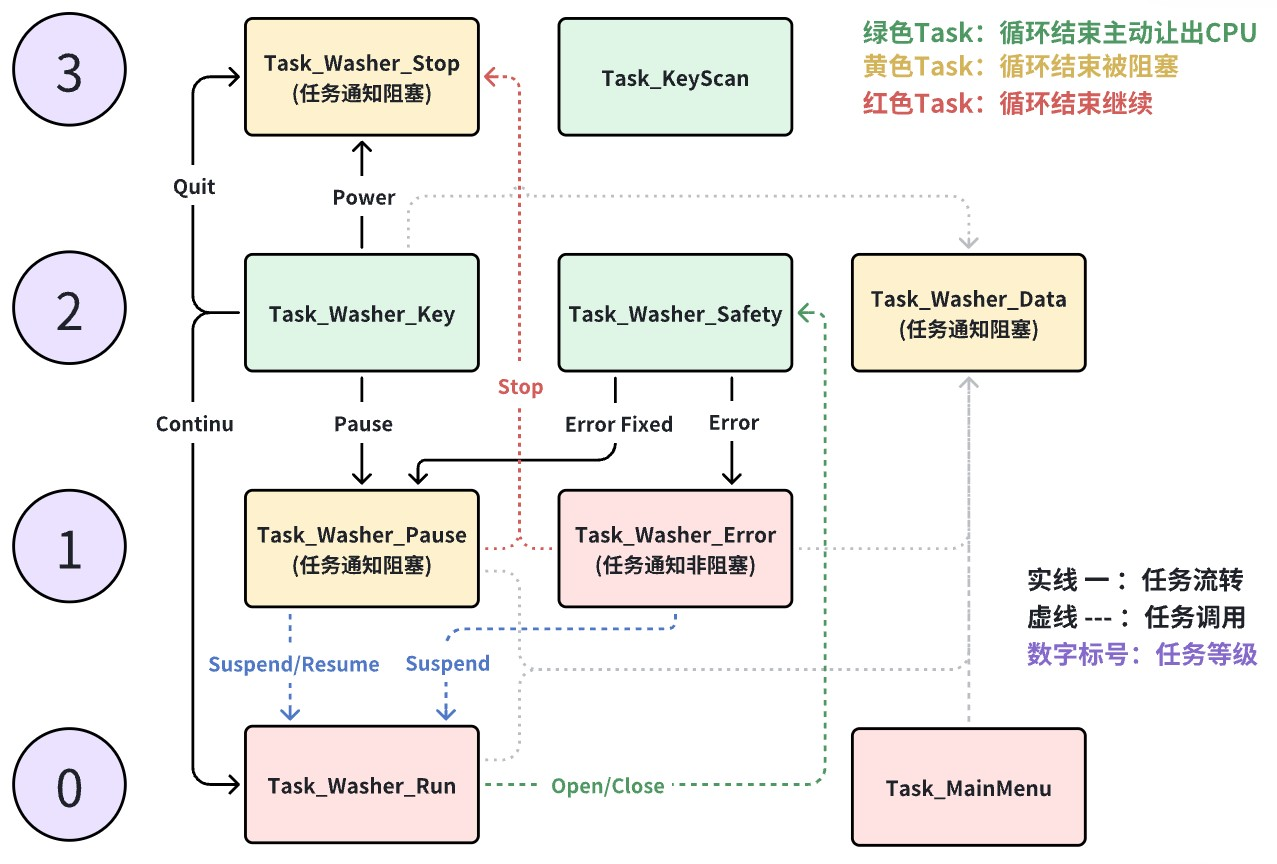
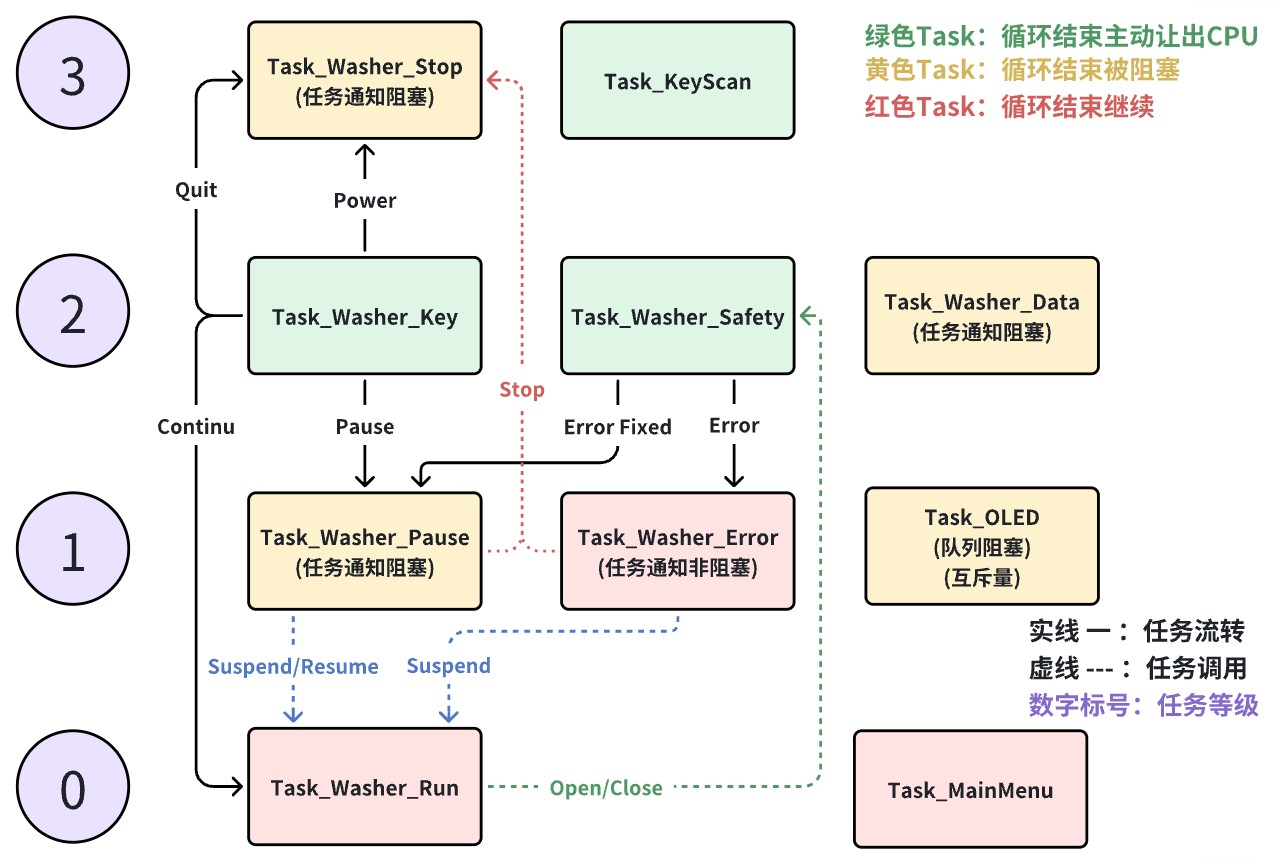
更新README

diff --git a/README.md b/README.md
@@ -57,7 +57,7 @@
 
 - 下图为任务图。
 - **注意：仅v3.0.0及以上版本适用。**
-- Task_Washer_Run 核心逻辑依然是洗衣机的状态机，相比于 v2.0.0分支版本，把洗衣机的【按键扫描】【安全监测】【急停/暂停/继续】从状态机里拆分出来，作为单独的Task运行，以提升响应速度和并发处理。
+- Task_Washer_Run 核心逻辑依然是洗衣机的状态机。相比于 v2.0.0分支版本，把【按键扫描】【安全监测】【急停/暂停/继续】【OLED显示】【数据管理】从状态机里拆分出来，作为单独的Task运行，以提升响应速度和并发处理。
 
 ![](https://github.com/KenneLu/stm32-washer-demo/blob/main/README.assets/Img4.jpg)
 
